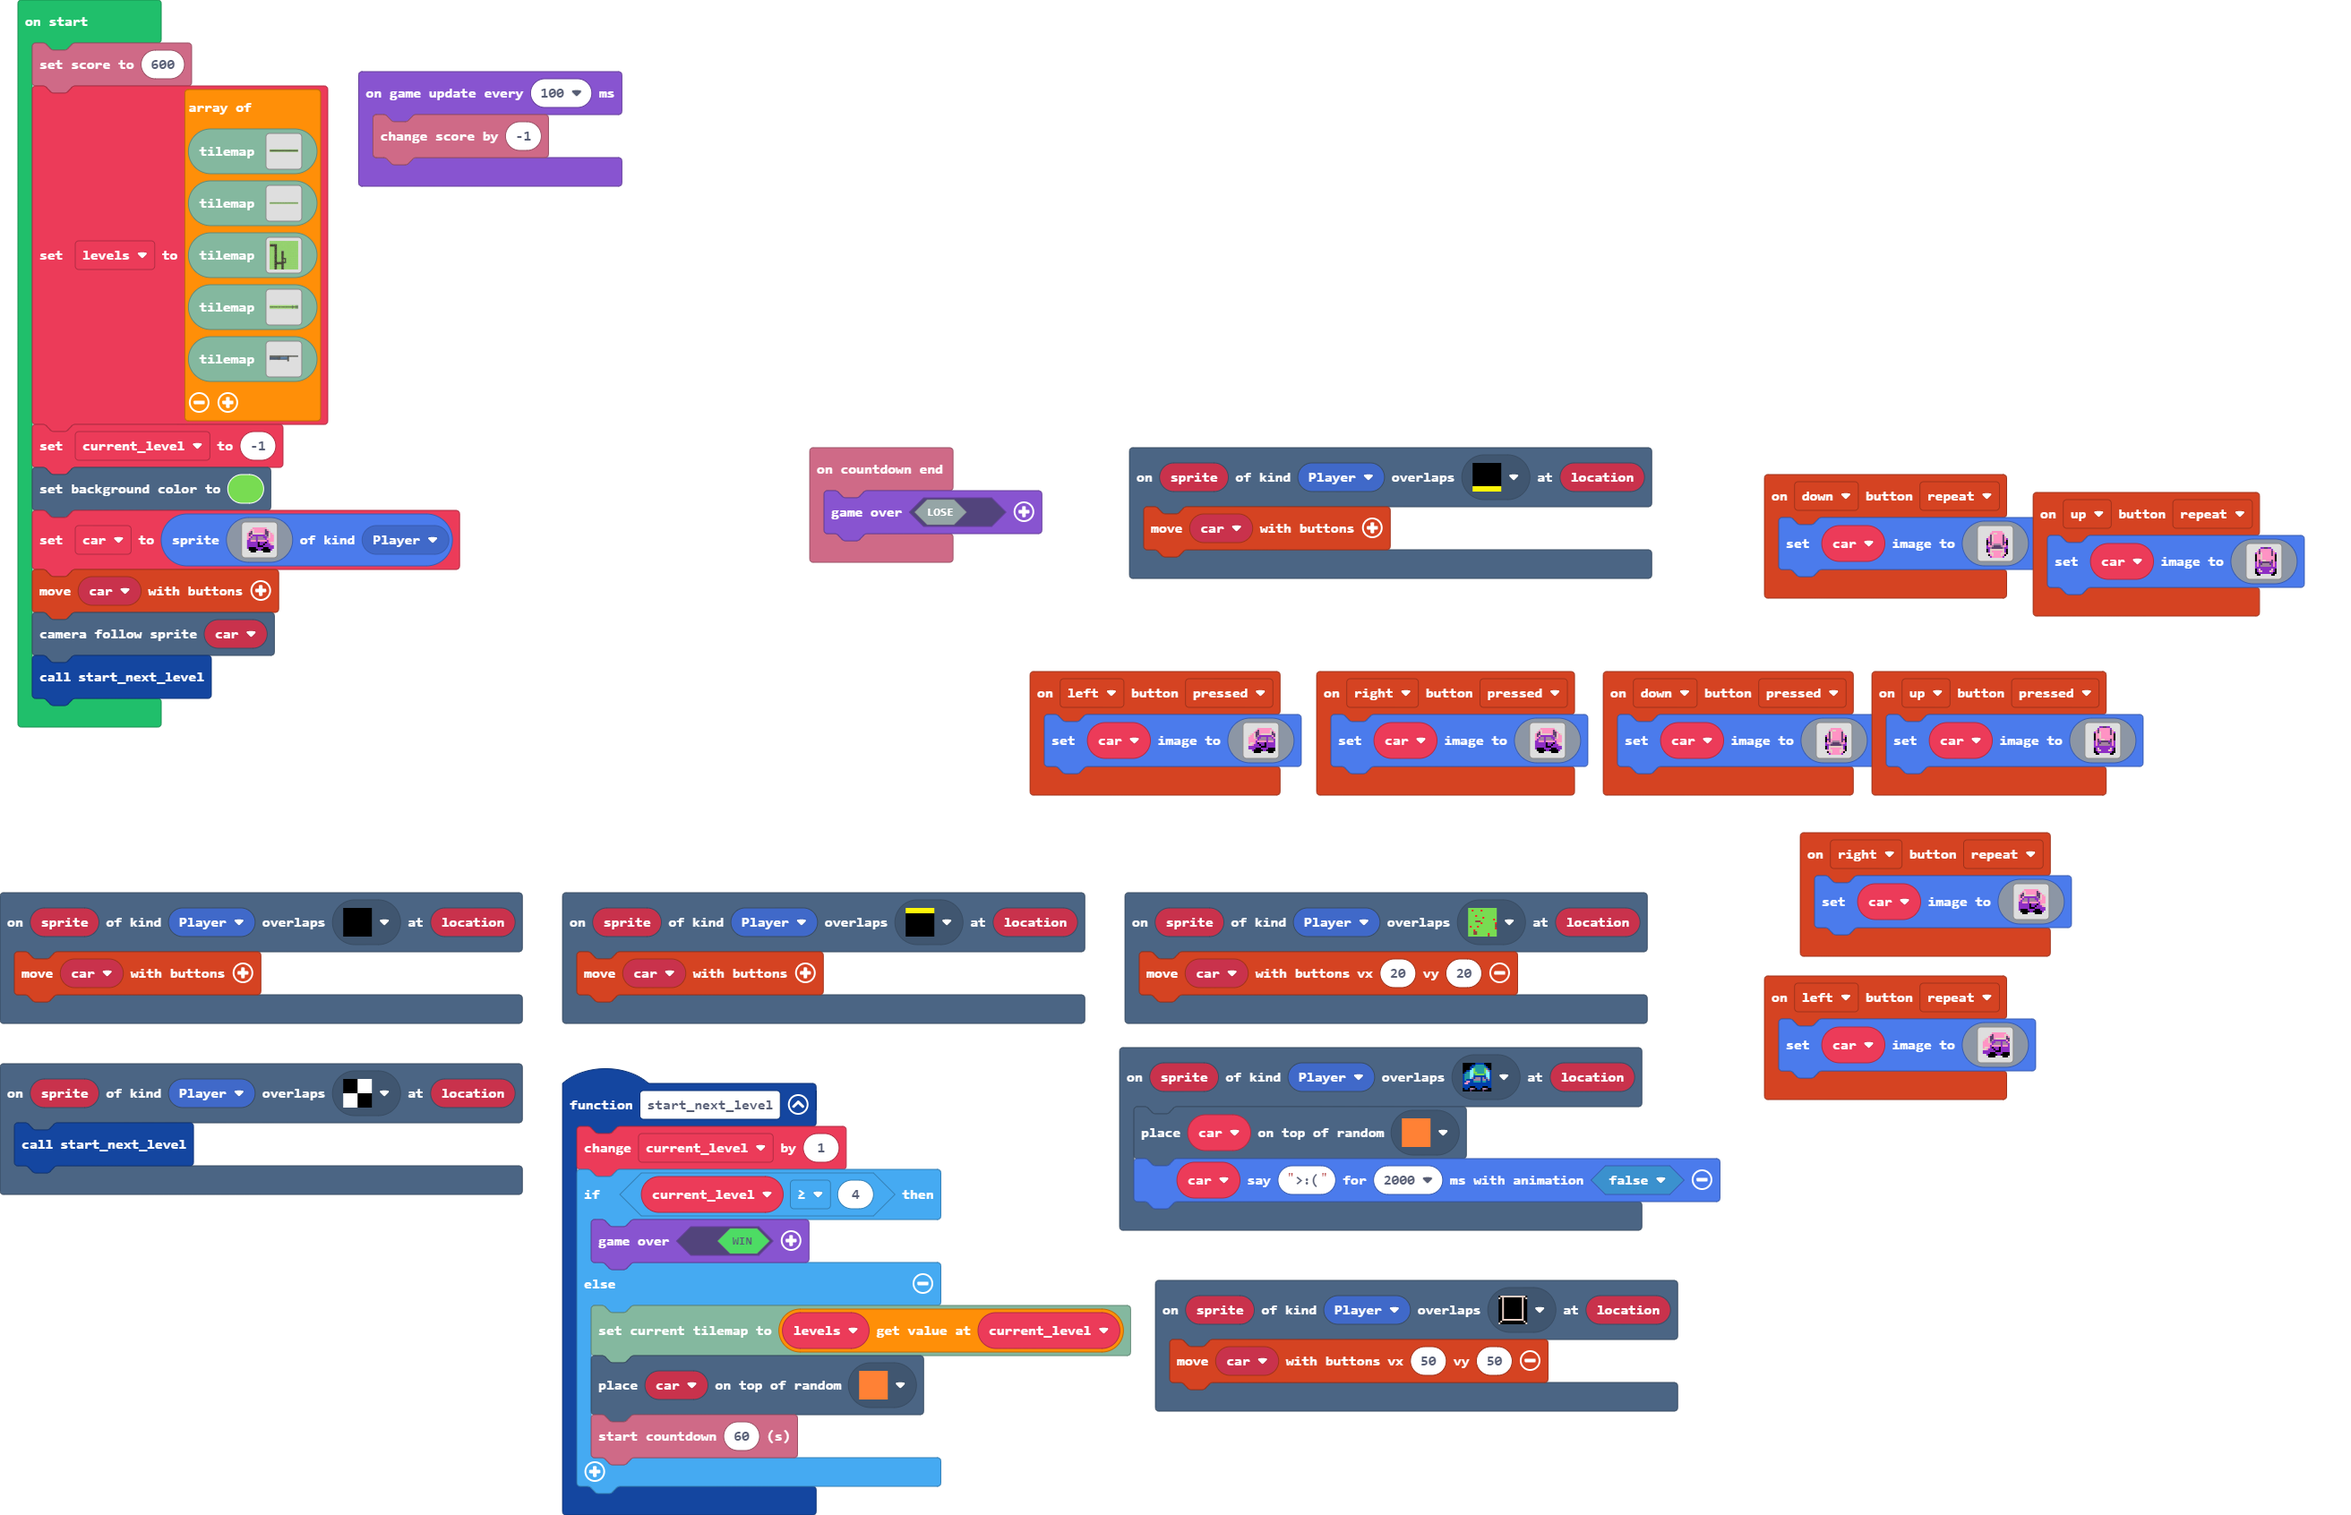
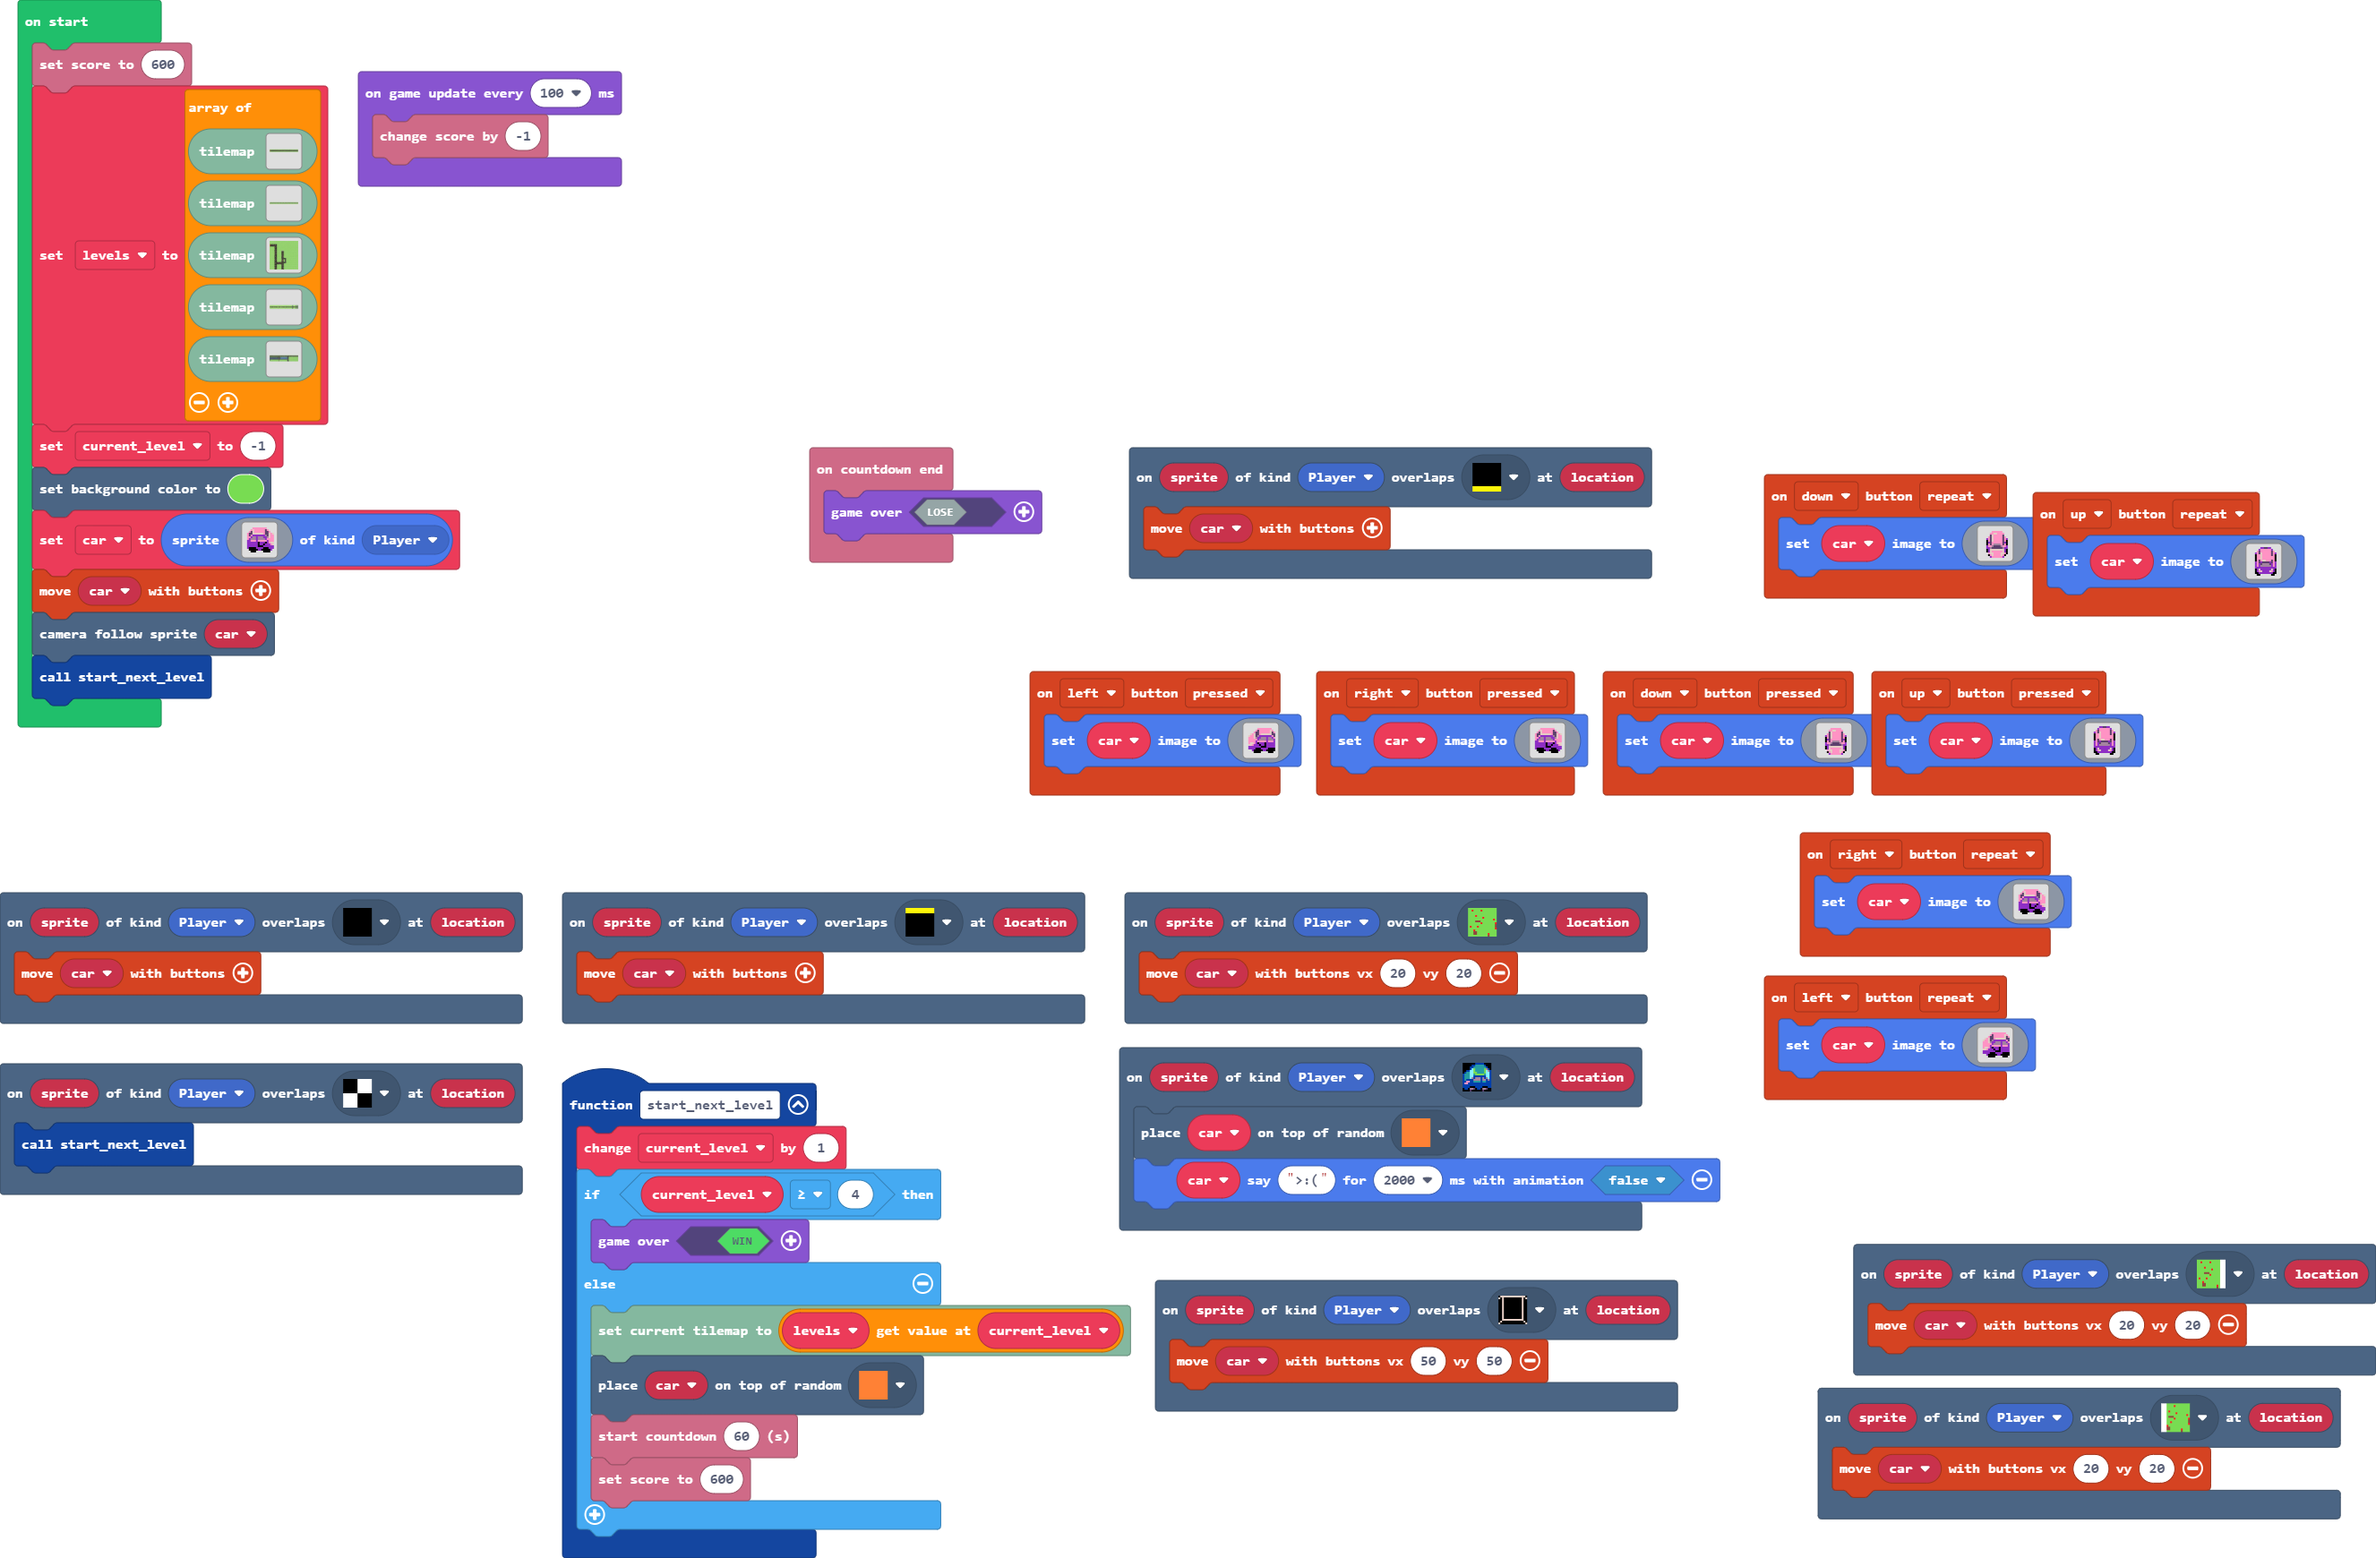
completed level 5!

diff --git a/tilemap.g.ts b/tilemap.g.ts
@@ -45,10 +45,6 @@ namespace myTiles {
     //% fixedInstance jres blockIdentity=images._tile
     export const tile21 = image.ofBuffer(hex``);
     //% fixedInstance jres blockIdentity=images._tile
-    export const tile22 = image.ofBuffer(hex``);
-    //% fixedInstance jres blockIdentity=images._tile
-    export const tile23 = image.ofBuffer(hex``);
-    //% fixedInstance jres blockIdentity=images._tile
     export const tile24 = image.ofBuffer(hex``);
     //% fixedInstance jres blockIdentity=images._tile
     export const tile25 = image.ofBuffer(hex``);
@@ -58,6 +54,22 @@ namespace myTiles {
     export const tile27 = image.ofBuffer(hex``);
     //% fixedInstance jres blockIdentity=images._tile
     export const tile28 = image.ofBuffer(hex``);
+    //% fixedInstance jres blockIdentity=images._tile
+    export const tile22 = image.ofBuffer(hex``);
+    //% fixedInstance jres blockIdentity=images._tile
+    export const tile23 = image.ofBuffer(hex``);
+    //% fixedInstance jres blockIdentity=images._tile
+    export const tile29 = image.ofBuffer(hex``);
+    //% fixedInstance jres blockIdentity=images._tile
+    export const tile30 = image.ofBuffer(hex``);
+    //% fixedInstance jres blockIdentity=images._tile
+    export const tile32 = image.ofBuffer(hex``);
+    //% fixedInstance jres blockIdentity=images._tile
+    export const tile33 = image.ofBuffer(hex``);
+    //% fixedInstance jres blockIdentity=images._tile
+    export const tile34 = image.ofBuffer(hex``);
+    //% fixedInstance jres blockIdentity=images._tile
+    export const tile35 = image.ofBuffer(hex``);
 
     helpers._registerFactory("tilemap", function(name: string) {
         switch(helpers.stringTrim(name)) {
@@ -387,33 +399,33 @@ namespace myTiles {
 . . . . . . . . . . . . . . . . 
 `, [myTiles.transparency16], TileScale.Sixteen);
             case "level16":
[2 lines of base64/hex data omitted]
+.............................................................................................................................
+..................2............2........2.......2.....2..........................................2..........................2
+..............2............2..............................................................2.2................2...............
+.....................................2...........................2....................2........2.2........2....2......2....2.
+............2...........2........2............2.....2.....2...2...................................2..........................
+.............................................................................................................................
+.............................................................................................................................
+...............................................................................2..2..........................................
+.............................................................................................................................
+.............................................................................................................................
+........................................22...................................................................................
+.............................................................................................................................
+.............................................................................................................................
+........................................22.....................................2..2..........................................
+.............................................................................................................................
+...................................22..........2................................22...........................................
+......................................2............2..2..2.......22.........22..22...........................................
+....................................2.........2..2.........2.2.2.....2.2..2..................................................
+..............................................................................222222.........................................
 .............................................................................................................................
 .............................................................................................................................
 .............................................................................................................................
 .............................................................................................................................
 .............................................................................................................................
 .............................................................................................................................
-.............................................................................................................................
-.............................................................................................................................
-.............................................................................................................................
-.............................................................................................................................
-.............................................................................................................................
-.............................................................................................................................
-.............................................................................................................................
-.............................................................................................................................
-.............................................................................................................................
-.............................................................................................................................
-.............................................................................................................................
-.............................................................................................................................
-.............................................................................................................................
-.............................................................................................................................
-.............................................................................................................................
-.............................................................................................................................
-.............................................................................................................................
-.............................................................................................................................
-.............................................................................................................................
-`, [myTiles.transparency16,myTiles.tile4,myTiles.tile7,myTiles.tile8,myTiles.tile5,myTiles.tile6,myTiles.tile18,myTiles.tile11,myTiles.tile20,myTiles.tile21,myTiles.tile2,myTiles.tile3,myTiles.tile19,myTiles.tile22,myTiles.tile23,myTiles.tile26,myTiles.tile27,myTiles.tile28], TileScale.Sixteen);
+`, [myTiles.transparency16,myTiles.tile4,myTiles.tile7,myTiles.tile8,myTiles.tile5,myTiles.tile6,myTiles.tile18,myTiles.tile11,myTiles.tile20,myTiles.tile21,myTiles.tile2,myTiles.tile3,myTiles.tile19,myTiles.tile22,myTiles.tile23,myTiles.tile26,myTiles.tile27,myTiles.tile9,myTiles.tile32,myTiles.tile33,myTiles.tile34,myTiles.tile35], TileScale.Sixteen);
         }
         return null;
     })
@@ -462,10 +474,6 @@ namespace myTiles {
             case "tile20":return tile20;
             case "myTile18":
             case "tile21":return tile21;
-            case "myTile19":
-            case "tile22":return tile22;
-            case "myTile20":
-            case "tile23":return tile23;
             case "myTile21":
             case "tile24":return tile24;
             case "myTile22":
@@ -476,6 +484,22 @@ namespace myTiles {
             case "tile27":return tile27;
             case "myTile25":
             case "tile28":return tile28;
+            case "myTile19":
+            case "tile22":return tile22;
+            case "myTile20":
+            case "tile23":return tile23;
+            case "myTile26":
+            case "tile29":return tile29;
+            case "myTile27":
+            case "tile30":return tile30;
+            case "myTile29":
+            case "tile32":return tile32;
+            case "myTile30":
+            case "tile33":return tile33;
+            case "myTile31":
+            case "tile34":return tile34;
+            case "myTile32":
+            case "tile35":return tile35;
         }
         return null;
     })

diff --git a/main.ts b/main.ts
@@ -4,6 +4,9 @@ scene.onOverlapTile(SpriteKind.Player, assets.tile`myTile0`, function (sprite, l
 scene.onOverlapTile(SpriteKind.Player, assets.tile`myTile1`, function (sprite, location) {
     controller.moveSprite(car)
 })
+scene.onOverlapTile(SpriteKind.Player, assets.tile`myTile19`, function (sprite, location) {
+    controller.moveSprite(car, 20, 20)
+})
 controller.up.onEvent(ControllerButtonEvent.Pressed, function () {
     car.setImage(img`
         . . . . . . a a c c a a . . . . 
@@ -78,6 +81,7 @@ function start_next_level () {
         tiles.loadMap(levels[current_level])
         tiles.placeOnRandomTile(car, assets.tile`myTile2`)
         info.startCountdown(60)
+        info.setScore(600)
     }
 }
 controller.left.onEvent(ControllerButtonEvent.Pressed, function () {
@@ -108,6 +112,9 @@ info.onCountdownEnd(function () {
 })
 scene.onOverlapTile(SpriteKind.Player, assets.tile`myTile16`, function (sprite, location) {
     controller.moveSprite(car, 50, 50)
+})
+scene.onOverlapTile(SpriteKind.Player, assets.tile`myTile20`, function (sprite, location) {
+    controller.moveSprite(car, 20, 20)
 })
 controller.right.onEvent(ControllerButtonEvent.Pressed, function () {
     car.setImage(img`
